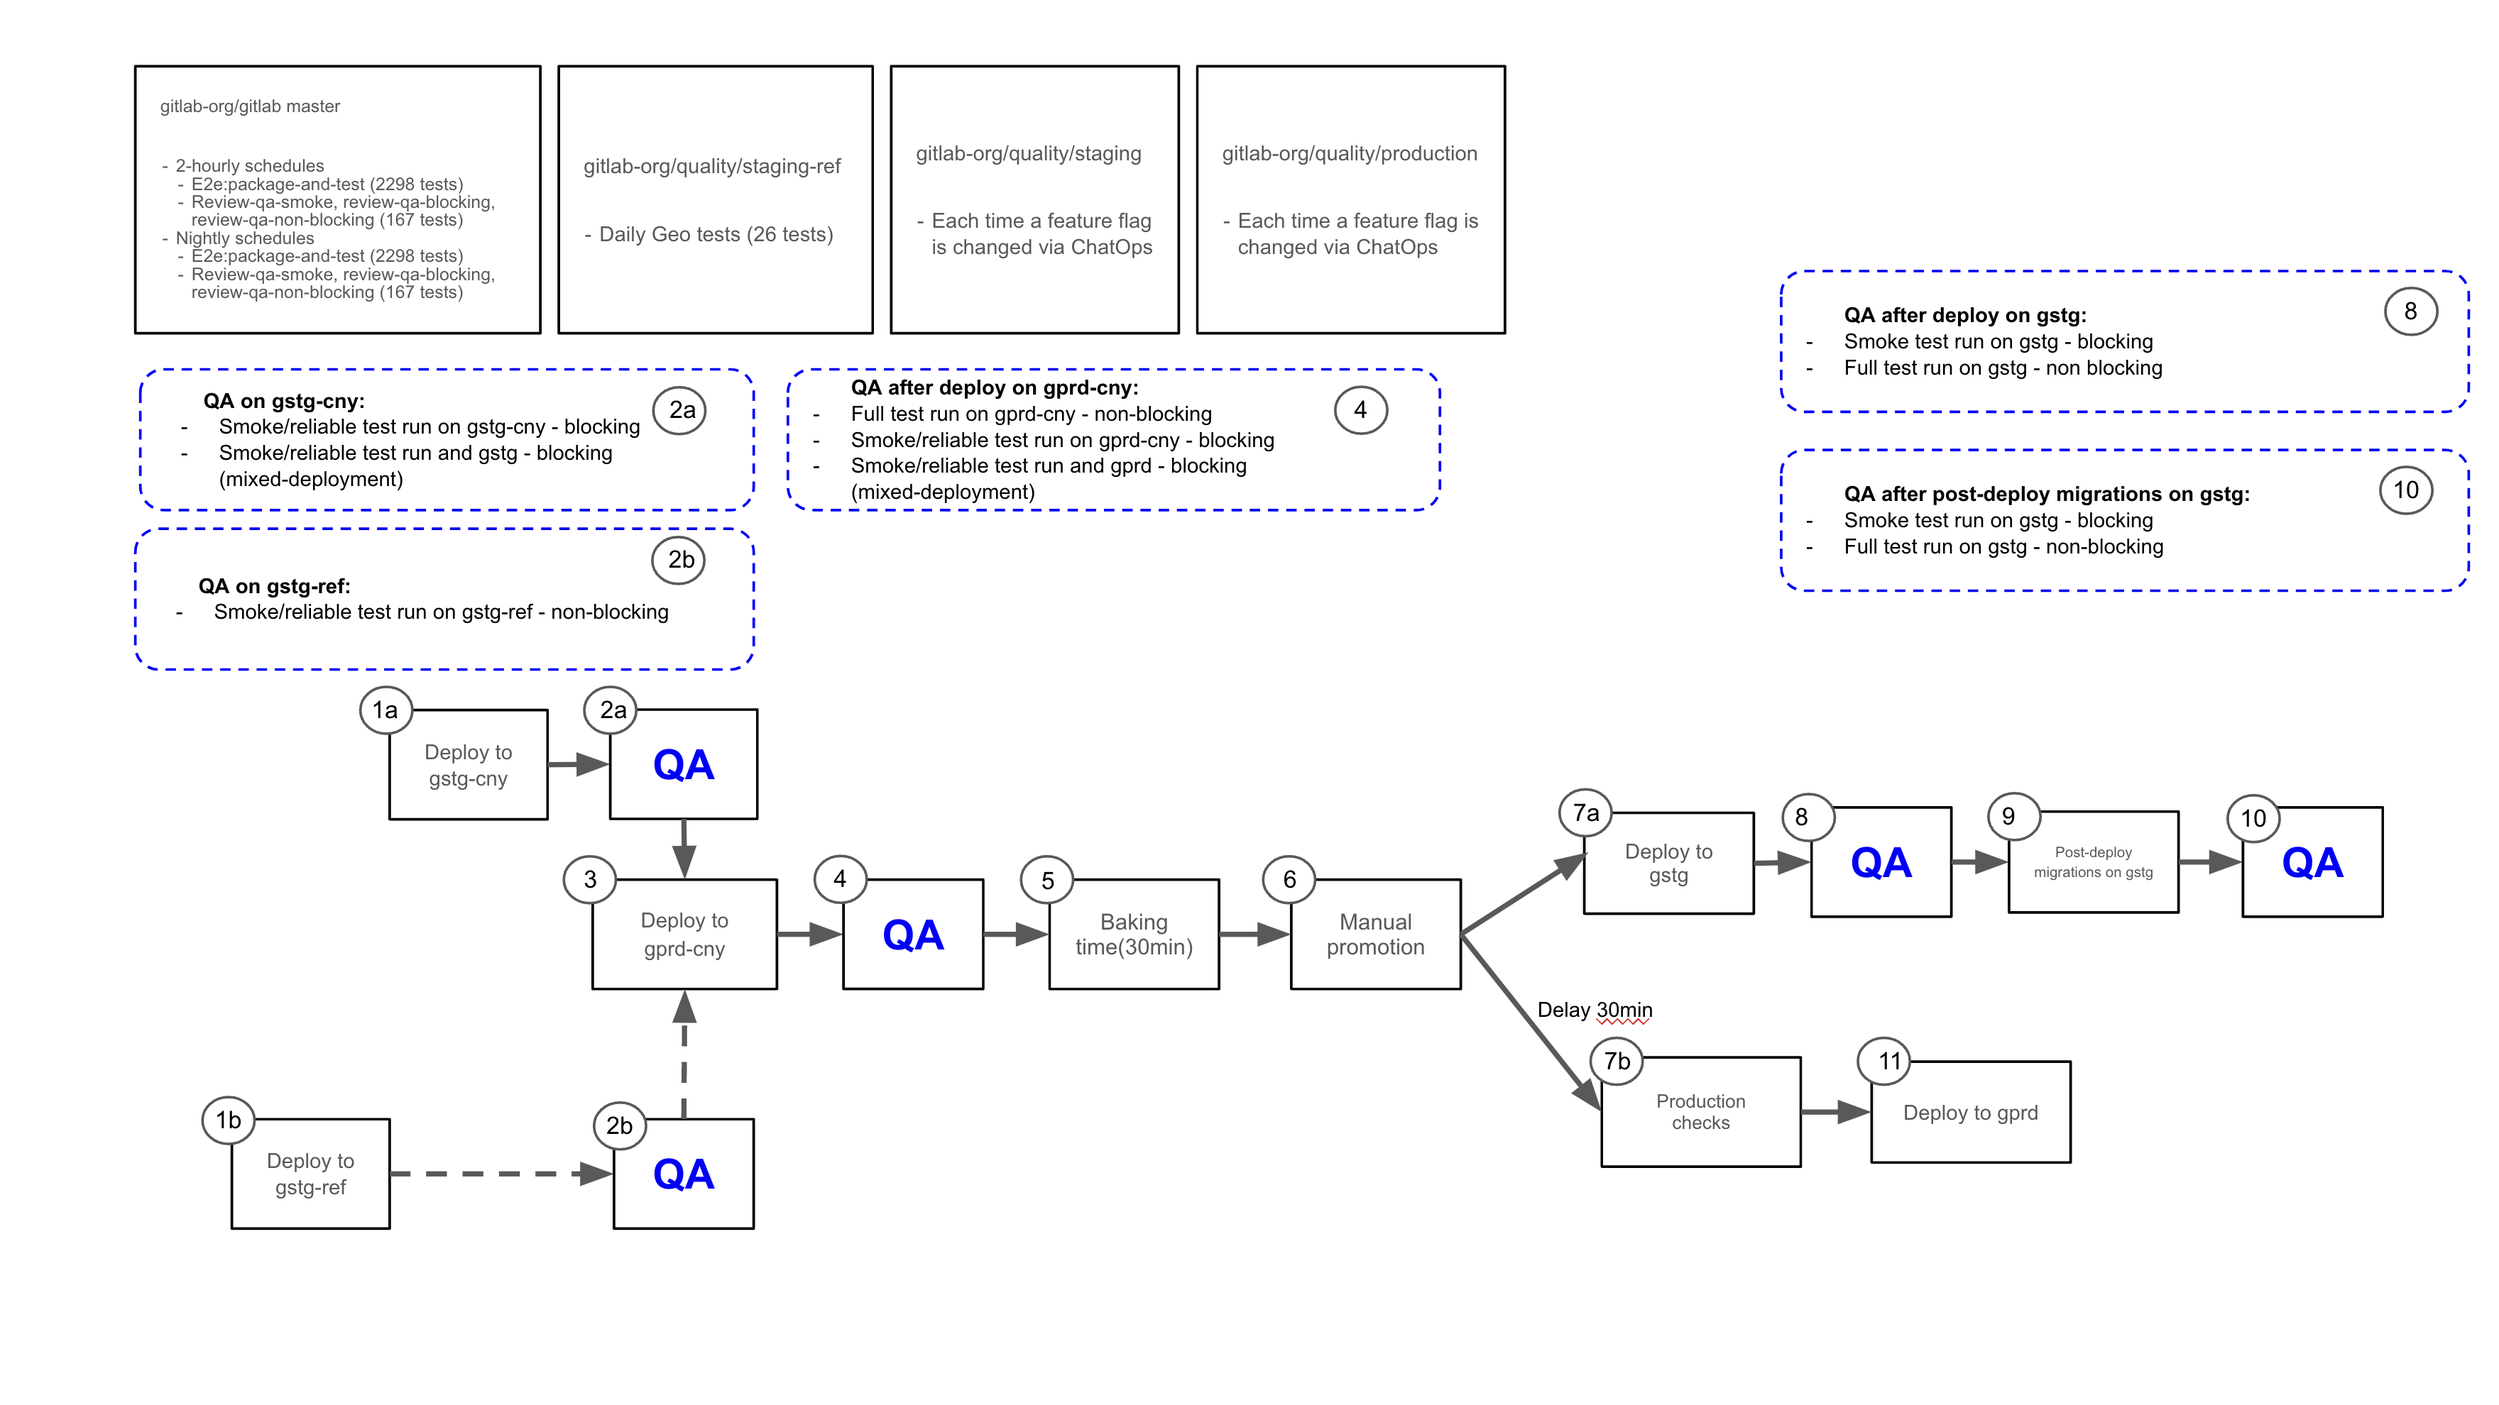
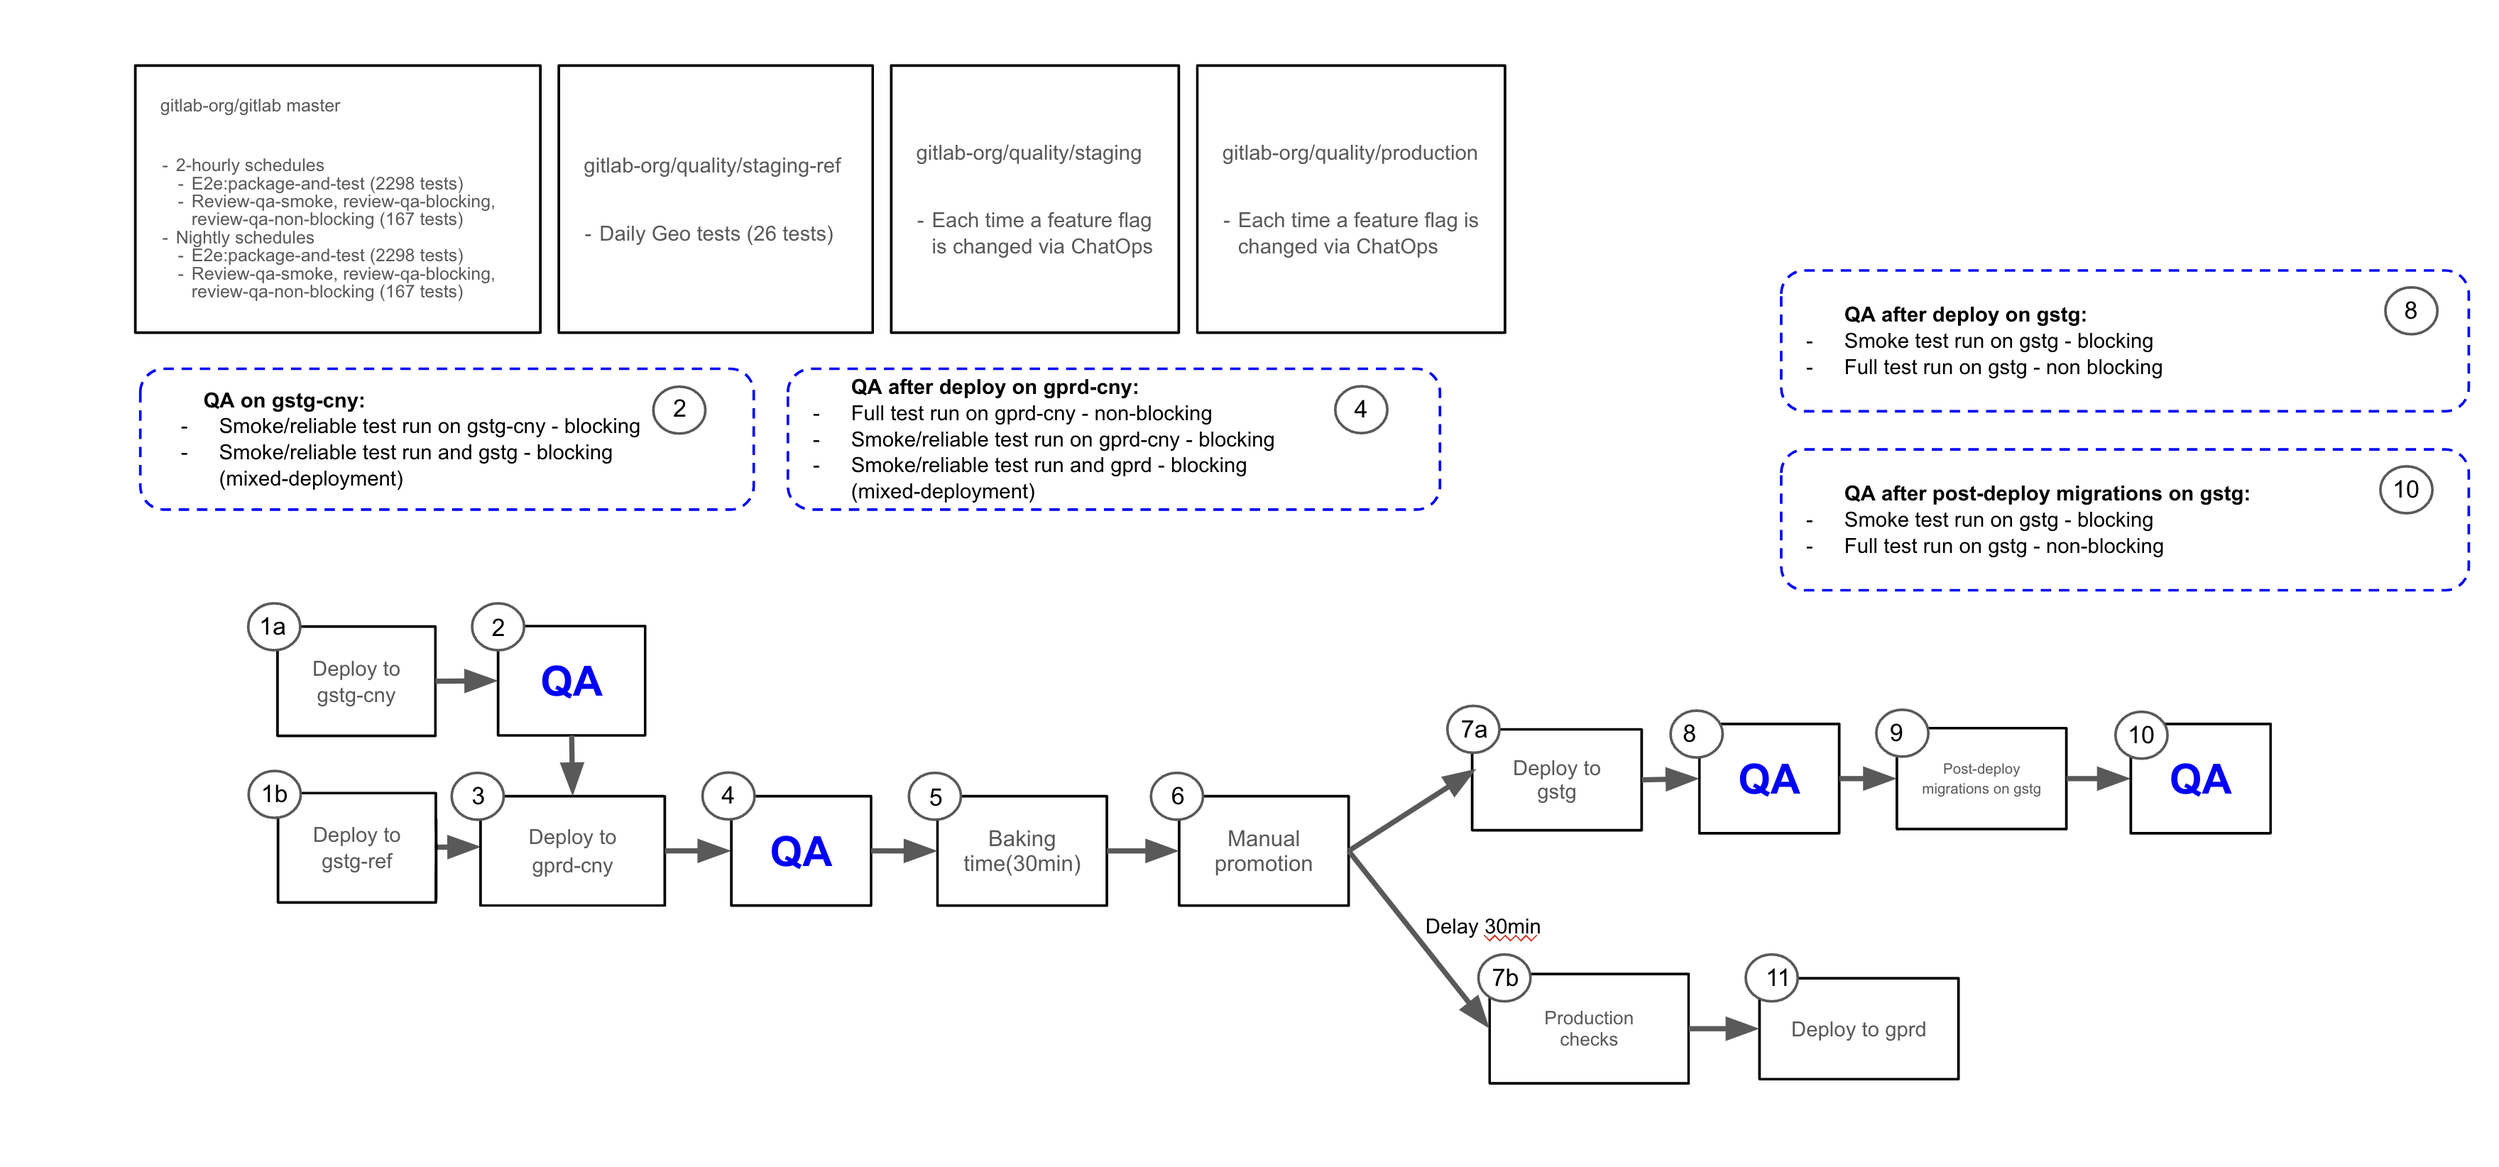
Remove Staging Ref QA Pipelines from Docs

diff --git a/content/handbook/engineering/infrastructure/test-platform/pipeline-monitoring/index.md b/content/handbook/engineering/infrastructure/test-platform/pipeline-monitoring/index.md
@@ -16,7 +16,6 @@ The test pipelines run on a scheduled basis, and their results are posted to Sla
 | -                                         | [Pipelines](https://ops.gitlab.net/gitlab-org/quality/staging/pipelines) \| [Definition](https://gitlab.com/gitlab-com/gl-infra/deployer/-/blob/29cab58a873dff1e49e9192bd6420d78e8e84bc8/ci/environments/gstg.yml#L238-248)                             | Smoke           | [after the execution of post-deploy migrations in Staging](https://ops.gitlab.net/gitlab-com/gl-infra/deployer/pipelines)                                                                                                                                      | [`#e2e-run-staging`](https://gitlab.slack.com/messages/CBS3YKMGD)                                                                                                                     | [Staging Sanity](https://gitlab-qa-allure-reports.s3.amazonaws.com/staging-sanity/master/index.html)         |
 | Staging Canary                            | [Pipelines](https://ops.gitlab.net/gitlab-org/quality/staging-canary/pipelines) \| [Definition](https://gitlab.com/gitlab-org/release-tools/-/blob/72b34fb21ecea70aec3ac2ce4e2387189c24bd3b/.gitlab/ci/coordinated-pipeline.gitlab-ci.yml#L385-403)     | Smoke           | [after each deployment to Staging](https://ops.gitlab.net/gitlab-com/gl-infra/deployer/pipelines)                                                                                                                                                              | [`#e2e-run-staging`](https://gitlab.slack.com/messages/CBS3YKMGD)                                                                                                                     | [Staging-Canary](https://gitlab-qa-allure-reports.s3.amazonaws.com/staging-canary-sanity/master/index.html)  |
 | CustomersDot Staging                      | [Pipelines](https://gitlab.com/gitlab-org/customers-gitlab-com/-/pipelines) \| [Definition](https://gitlab.com/gitlab-org/customers-gitlab-com/-/blob/e8d058a9f54aeae1218491ad34cdfd67d27d084f/.gitlab/ci/e2e.gitlab-ci.yml#L199-255)                   | Full            | [after each deployment to CustomersDot Staging](https://gitlab.com/gitlab-org/customers-gitlab-com/-/pipelines)                                                                                                                                                | [`#e2e-run-staging`](https://gitlab.slack.com/messages/CBS3YKMGD) [`#s_fulfillment_status`](https://gitlab.slack.com/messages/CL7SX4N86)                                              | [CustomersDot Staging](https://gitlab-qa-allure-reports.s3.amazonaws.com/cdot-e2e-staging/main/index.html)   |
-| Staging Ref                               | [Pipelines](https://ops.gitlab.net/gitlab-org/quality/staging-ref/pipelines) \| [Definition](https://gitlab.com/gitlab-com/gl-infra/deployer/-/blob/10cc4811f5aae0a38b77cd5c9def954a0e2afac1/ci/environments/gstg-ref.yml#L177-191)                     | Smoke           | [after each deployment to Staging Ref](https://ops.gitlab.net/gitlab-com/gl-infra/deployer/pipelines).                                                                                                                                                         | [`#e2e-run-staging-ref`](https://gitlab.slack.com/archives/C02JGFF2EAZ)                                                                  | [Staging Ref Sanity](https://gitlab-qa-allure-reports.s3.amazonaws.com/staging-ref-sanity/master/index.html) |
 | Preprod                                   | [Pipelines](https://ops.gitlab.net/gitlab-org/quality/preprod/pipelines) \| [Definition](https://gitlab.com/gitlab-com/gl-infra/deployer/-/blob/2279042064c45fdb10ce696d1c4ef12b72affbfd/ci/environments/pre.yml#L171-181)                              | Smoke           | [Every month for a few days before release, at 03:00 UTC](https://ops.gitlab.net/gitlab-org/quality/preprod/-/pipeline_schedules) and after [deployment to preprod](/handbook/engineering/infrastructure/environments/#pre) during Security and Patch releases | [`#e2e-run-preprod`](https://gitlab.slack.com/archives/CR7QH0RV1)                                                                        | [Preprod](https://gitlab-qa-allure-reports.s3.amazonaws.com/preprod-sanity/master/index.html)                |
 | Release                                   | [Pipelines](https://ops.gitlab.net/gitlab-org/quality/release) \| [Definition](https://gitlab.com/gitlab-com/gl-infra/deployer/-/blob/10cc4811f5aae0a38b77cd5c9def954a0e2afac1/ci/environments/release.yml#L82-93)                                      | Smoke           | [Every month after the final release](https://ops.gitlab.net/gitlab-org/quality/release/-/pipeline_schedules) and after [deployment to Release](/handbook/engineering/infrastructure/environments/#release) during Security and Patch releases                 | [`#e2e-run-release`](https://gitlab.slack.com/archives/C0154HCFLRE)                                                                      | [Release](https://gitlab-qa-allure-reports.s3.amazonaws.com/release-sanity/master/index.html)                |
 | GitLab `master` `e2e:test-on-omnibus-ee` | [Pipelines](https://gitlab.com/gitlab-org/gitlab/pipelines) \| [Definition](https://gitlab.com/gitlab-org/gitlab/-/blob/77a5b0b3f8f910d4fe89a3fed46c4da53b1e587e/.gitlab/ci/qa.gitlab-ci.yml#L77-88)                                                    | Full            | [scheduled pipeline every 2 hours](https://gitlab.com/gitlab-org/gitlab/pipeline_schedules)                                                                                                                                                                    | [`#e2e-run-master`](https://gitlab.slack.com/archives/CNV2N29DM)                                                                                                                      | [Master EE](https://gitlab-qa-allure-reports.s3.amazonaws.com/e2e-test-on-omnibus/master/index.html)        |

diff --git a/content/handbook/engineering/infrastructure/environments/staging-ref.md b/content/handbook/engineering/infrastructure/environments/staging-ref.md
@@ -39,7 +39,7 @@ Staging Ref is a sandbox environment used for pre-production testing of the late
 
 Staging Ref deployment runs parallel to Staging Canary deployment. [Deployer](https://ops.gitlab.net/gitlab-com/gl-infra/deployer) triggers a job in [Staging-Ref GET Config](https://ops.gitlab.net/gitlab-org/quality/gitlab-environment-toolkit-configs/staging-ref) to update the environment. Notifications about new deployments are sent to the [`#announcements`](https://gitlab.slack.com/archives/C8PKBH3M5) Slack channel.
 
-Staging Ref pipelines do not block the deployment. If there are any failures with deployment to `gstg-ref`, please reach out to `@release-managers`. After successful deployment, Sanity and Full QA pipelines are triggered. Results are posted to `#e2e-run-staging-ref` and analysed by Test Platform on-call DRIs. Please refer to the [Test Platform Department pipeline triage rotation schedule](/handbook/engineering/infrastructure/test-platform/oncall-rotation/#schedule) to identify the current DRI.
+Staging Ref pipelines do not block the deployment. If there are any failures with deployment to `gstg-ref`, please reach out to `@release-managers`.
 
 ```plantuml
 @startuml staging-ref
@@ -53,7 +53,6 @@ card "gstg-ref" as gstg_ref #ffee9a {
   card "**Staging-Ref GET Config**" as stg_ref_get #FF8C00
  }
 }
-card "**QA**" as gstg_ref_qa #ffa7db
 
 card "**gstg-cny**" as gstg_cny #ffee9a
 card "**gstg**" as gstg #ffd59a
@@ -65,7 +64,6 @@ card "**QA**" as gprd_cny_qa #ffa7db
 
 deploy -[#554488]-> gstg_ref
 deployer -[#554488]-> stg_ref_get
-gstg_ref -[#554488]--> gstg_ref_qa
 
 deploy -[#554488]-> gstg_cny
 gstg_cny -[#554488]-> gstg_cny_qa
@@ -91,7 +89,7 @@ After signing in you can proceed using the environment as required. If destructi
 
 #### Enable Feature Flags
 
-[ChatOps commands](/handbook/support/workflows/chatops/#feature-flags) can be used to enable or disable Feature Flags on Staging Ref. You can run this command in the [`#staging-ref`](https://gitlab.slack.com/archives/C02LN0K1N3Y) Slack channel and notifications will be sent to [`#e2e-run-staging-ref`](https://gitlab.slack.com/archives/C02JGFF2EAZ) after a flag is enabled/disabled.
+[ChatOps commands](/handbook/support/workflows/chatops/#feature-flags) can be used to enable or disable Feature Flags on Staging Ref. You can run this command in the [`#staging-ref`](https://gitlab.slack.com/archives/C02LN0K1N3Y) Slack channel.
 
 #### Admin access
 
@@ -134,9 +132,9 @@ Note that GitLab configuration changes will be overwritten by a new deployment t
 
 A simplified process to request SSH access to Staging Ref virtual machines and the GKE cluster is being worked on in [issue#343938](https://gitlab.com/gitlab-org/gitlab/-/issues/343938).
 
-#### Trigger QA pipelines
+#### Trigger E2E test pipelines
 
-Sanity or Full QA pipeline may be triggered on demand in [staging-ref](https://ops.gitlab.net/gitlab-org/quality/staging-ref/-/pipeline_schedules) project. Please reach out to [Test Platform on-call DRIs](/handbook/engineering/infrastructure/test-platform/oncall-rotation/#schedule) if there are any questions.
+The full or smoke E2E test suite may be triggered on demand in the [staging-ref](https://ops.gitlab.net/gitlab-org/quality/staging-ref/-/pipeline_schedules) project. Results will also be posted to the `#staging-ref` Slack channel.
 
 #### Monitoring
 

diff --git a/content/handbook/engineering/infrastructure/test-platform/debugging-qa-test-failures/index.md b/content/handbook/engineering/infrastructure/test-platform/debugging-qa-test-failures/index.md
@@ -19,7 +19,7 @@ Note when viewing a deployment failure from the `#announcements` Slack channel, 
 
 Click on the diagram below to visit the announcement issue for more context and view an uncompressed image:
 
-[[![Pipeline Reorder](/handbook/engineering/infrastructure/test-platform/debugging-qa-test-failures/deployment-pipeline-and-e2e-tests.png "pipeline diagram")](https://gitlab.com/gitlab-com/gl-infra/delivery/-/issues/2280)
+[![Pipeline Reorder](/handbook/engineering/infrastructure/test-platform/debugging-qa-test-failures/deployment-pipeline-and-e2e-tests.png "pipeline diagram")](https://gitlab.com/gitlab-com/gl-infra/delivery/-/issues/2280)
 
 Note the diagram has been updated as part of increasing rollback availability by removing the [blocking nature of post-deployment migrations](https://gitlab.com/groups/gitlab-com/gl-infra/-/epics/585).
 
@@ -28,12 +28,10 @@ Note the diagram has been updated as part of increasing rollback availability by
 [Staging Ref](/handbook/engineering/infrastructure/environments/staging-ref/) is a Sandbox environment used for pre-production testing of the latest Staging Canary code. It is a shared
 environment with wide access permissions and as a result of engineers testing their code, the environment may become unstable and may need to be rebuilt.
 
-As such failures in any QA pipelines on Staging Ref are *not blocking* the deployment. QA suites are triggered when a new GitLab version
-is deployed to the environment. They are used to check that the environment is healthy and functionality is working as expected.
-Quality team maintains the environment and has full access to its resources for in-depth debugging.
+The full or smoke E2E test suite can be triggered on an as-needed basis from the `staging-ref` project's [pipeline schedules](https://ops.gitlab.net/gitlab-org/quality/staging-ref/-/pipeline_schedules).
 
 Staging Ref deployment runs parallel to Staging Canary deployment. These two environments share the same GitLab version, if a failure happens
-on Staging Ref but not on Staging Canary, it may indicate that the failure is environment specific. See [QA pipeline debugging guide](https://gitlab.com/gitlab-org/quality/gitlab-environment-toolkit-configs/staging-ref/-/blob/main/doc/qa_failure_debug.md) for more information on how to investigate QA failures in E2E tests triggered after Staging Ref deployment.
+on Staging Ref but not on Staging Canary, it may indicate that the failure is environment specific. See [QA pipeline debugging guide](https://gitlab.com/gitlab-org/quality/gitlab-environment-toolkit-configs/staging-ref/-/blob/main/doc/qa_failure_debug.md) for more information on how to investigate E2E test failures.
 
 ### Preprod
 

diff --git a/content/handbook/engineering/infrastructure/test-platform/pipeline-triage/index.md b/content/handbook/engineering/infrastructure/test-platform/pipeline-triage/index.md
@@ -327,7 +327,7 @@ Some examples of external dependency failures could include:
 
 #### Failure needs escalation
 
-If the failure is in a `smoke` test, it will block deployments ([except for Staging Ref failures](/handbook/engineering/infrastructure/test-platform/debugging-qa-test-failures/#staging-ref)). Please inform the release managers of the root cause and if a fix is in progress by Quality. On GitLab.com, you can use `@gitlab-org/release/managers`. In Slack, you can use `@release-managers`.
+If the failure is in a `smoke` test, it will block deployments. Please inform the release managers of the root cause and if a fix is in progress by Quality. On GitLab.com, you can use `@gitlab-org/release/managers`. In Slack, you can use `@release-managers`.
 
 If the failure could affect the performance of `GitLab.com` production, or make it unavailable to a specific group of users, you can [declare an incident](/handbook/engineering/infrastructure/incident-management/#reporting-an-incident) with `/incident declare` in the `#production` Slack channel, this will automatically prevent deployments (if the incident is at least an S2).
 

diff --git a/content/handbook/engineering/infrastructure/test-platform/onboarding/index.md b/content/handbook/engineering/infrastructure/test-platform/onboarding/index.md
@@ -64,7 +64,6 @@ These internal Slack channels may be helpful to join.
   * [#e2e-run-preprod](https://gitlab.slack.com/messages/CCNNKFP8B) - channel with  end-to-end test results for run against pre.gitlab.com
   * [#e2e-run-release](https://gitlab.slack.com/archives/C0154HCFLRE) - channel with end-to-end test results for run against release.gitlab.net
   * [#e2e-run-staging](https://gitlab.slack.com/messages/CBS3YKMGD) -  channel with  end-to-end test results for run against staging.gitlab.com
-  * [#e2e-run-staging-ref](https://gitlab.slack.com/archives/C02JGFF2EAZ) - channel with end-to-end test results for run against staging-ref.gitlab.com
   * [#e2e-run-production](https://gitlab.slack.com/messages/CCNNKFP8B) - channel with end-to-end test results for run against gitlab.com
   * [#gpt-performance-run](https://gitlab.slack.com/messages/CH8J9EG49) - channel with performance testing results
   * [#quality-reports](https://gitlab.slack.com/archives/C02MH85L5EF) - channel with various end-to-end test metrics reports
